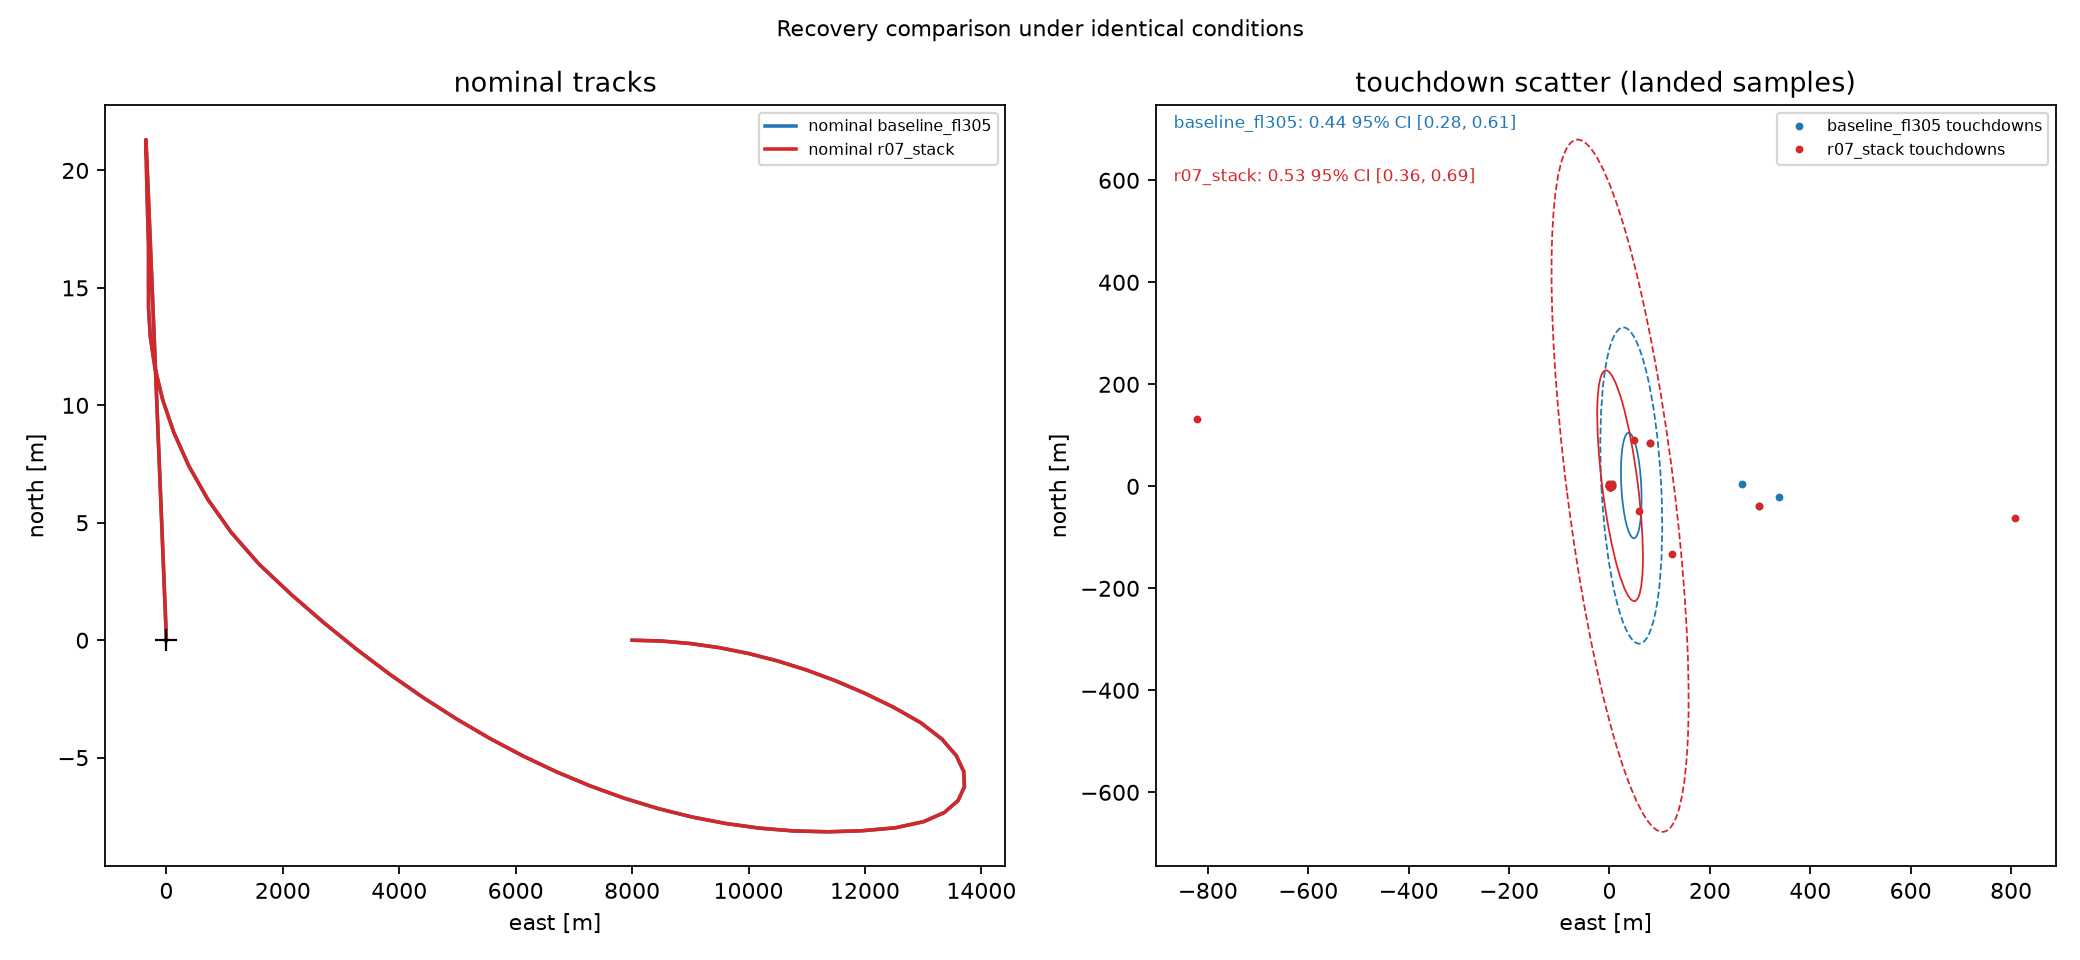
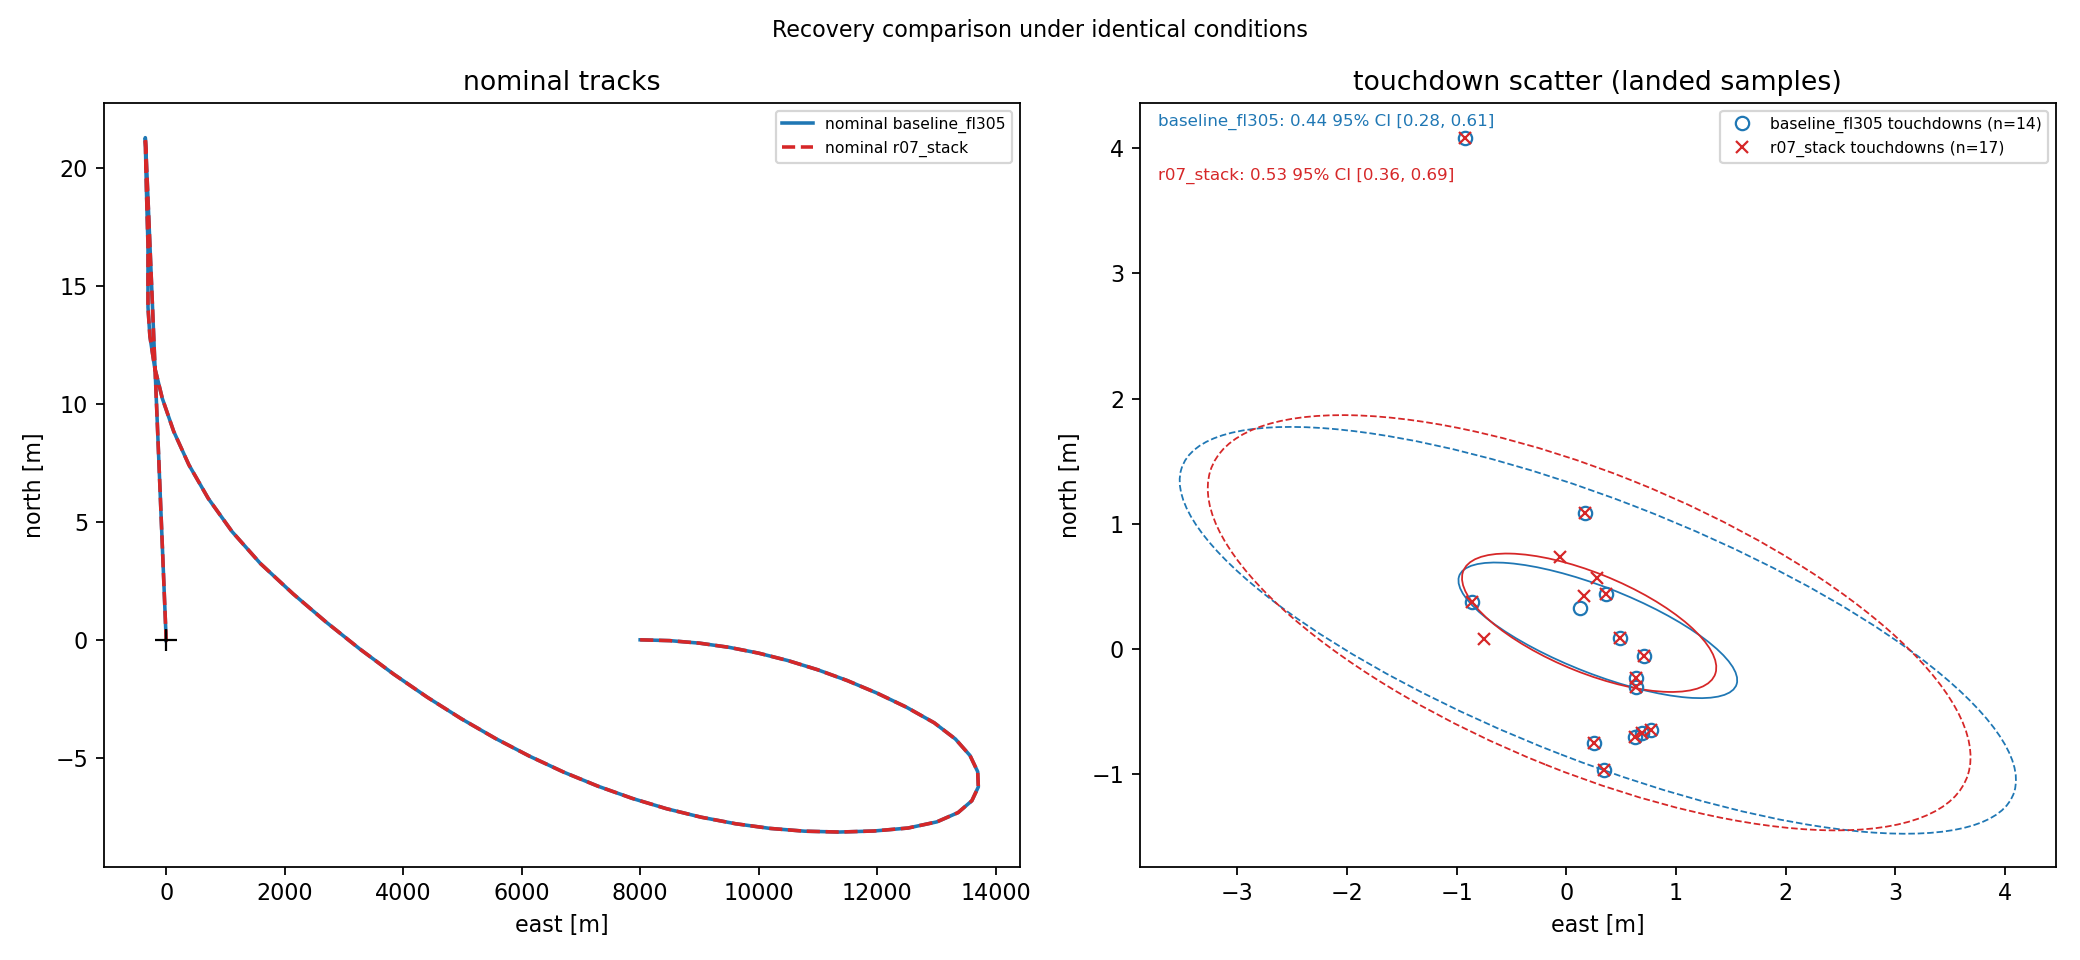
fix(recovery): comparison scatter uses landed samples only
plot_comparison drew failed samples' ground contacts under a 'landed
samples' title, inflating the sigma ellipses ~100x. Runs also get distinct
markers so identical touchdowns stay visible. R-07 figure regenerated
(statistics reproduce the recorded ones).

diff --git a/src/orbitopt/flightlab/recovery/envelope.py b/src/orbitopt/flightlab/recovery/envelope.py
@@ -59,7 +59,7 @@ from orbitopt.flightlab.recovery.stats import FAILURE_CLASSES, classify_failure
 
 __all__ = ["CLASS_COLORS", "TRACK_COLUMNS", "TRACK_SCHEMA",
            "capture_track_rows", "envelope_dataset", "nominal_recovery",
-           "nominal_report", "plot_comparison", "plot_envelope",
+           "landed_touchdowns", "nominal_report", "plot_comparison", "plot_envelope",
            "site_from_target", "track_rows", "write_nominal_report"]
 
 #: Fixed capture column layout -- the record's ``track.rows`` are
@@ -400,6 +400,16 @@ def plot_envelope(data: Mapping[str, Any], path: Path | str, *,
     return out
 
 
+def landed_touchdowns(data: Mapping[str, Any]) -> list[list[float]]:
+    """Site-ENU touchdown points of the *landed* samples only. A failed
+    sample can still carry a ground-contact point (a crash or a miss far
+    from the pad); those are failures, not part of the touchdown
+    dispersion, so the comparison scatter and its sigma ellipses use this
+    list and match the "landed samples" they are labelled with."""
+    return [tr["touchdown_enu_m"] for tr in data["trajectories"]
+            if tr["outcome"] == "landed" and tr["touchdown_enu_m"] is not None]
+
+
 def plot_comparison(runs: Sequence[Mapping[str, Any]], path: Path | str, *,
                     title: str = "Recovery comparison under identical "
                                 "conditions") -> Path:
@@ -417,18 +427,26 @@ def plot_comparison(runs: Sequence[Mapping[str, Any]], path: Path | str, *,
     from matplotlib.patches import Ellipse
 
     colors = ["#1f77b4", "#d62728", "#2ca02c", "#9467bd"]
+    # Runs flown under identical dispersions often land on the very same
+    # point; distinct marker shapes (hollow first) and line styles keep the
+    # earlier run visible under the later one.
+    markers = ["o", "x", "^", "s"]
+    line_styles = ["-", "--", "-.", ":"]
     fig, (axg, axt) = plt.subplots(1, 2, figsize=(13.0, 6.0))
     for i, run in enumerate(runs):
         color = colors[i % len(colors)]
         nom = _nominal_xy(run.get("nominal"))
         if nom is not None:
             axg.plot(nom[:, 1], nom[:, 2], color=color, lw=1.6,
+                     ls=line_styles[i % len(line_styles)],
                      label=f"nominal {run['label']}")
-        pts = [tr["touchdown_enu_m"] for tr in run["dataset"]["trajectories"]
-               if tr["touchdown_enu_m"] is not None]
+        pts = landed_touchdowns(run["dataset"])
         if pts:
-            axt.plot([p[0] for p in pts], [p[1] for p in pts], ".",
-                     color=color, ms=5, label=f"{run['label']} touchdowns")
+            marker = markers[i % len(markers)]
+            axt.plot([p[0] for p in pts], [p[1] for p in pts], marker,
+                     ls="", ms=6 if marker == "o" else 5, mec=color,
+                     mfc="none" if marker == "o" else color, mew=1.0,
+                     label=f"{run['label']} touchdowns (n={len(pts)})")
         if len(pts) >= 3:
             p = np.asarray(pts)
             cov = np.cov(p.T)

diff --git a/tests/test_flightlab_recovery_envelope.py b/tests/test_flightlab_recovery_envelope.py
@@ -26,6 +26,7 @@ from orbitopt.flightlab.recovery.envelope import (
     TRACK_SCHEMA,
     capture_track_rows,
     envelope_dataset,
+    landed_touchdowns,
     nominal_report,
     plot_comparison,
     plot_envelope,
@@ -150,6 +151,18 @@ def test_envelope_dataset_orders_classifies_and_ignores_uncaptured():
     assert by_idx[1]["touchdown_enu_m"] == [5.0, -4.0]
     assert data["ground"]["max_touchdown_radius_m"] == pytest.approx(6.403, abs=1e-3)
     assert all(t["rows"] for t in data["trajectories"])
+
+
+def test_landed_touchdowns_excludes_failed_ground_contacts():
+    """A failed sample can carry a touchdown point (a miss kilometres from
+    the pad). The comparison scatter is titled "landed samples", so its
+    points and sigma ellipses must come from landed samples only."""
+    miss = _sample(4, "failed", "LANDING_POSITION_OUT_OF_TOLERANCE", seed=6)
+    miss["touchdown_east_m"], miss["touchdown_north_m"] = 1800.0, -1500.0
+    landed = _sample(1, "landed", "LANDED", touchdown=(5.0, -4.0), seed=3)
+    landed2 = _sample(5, "landed", "LANDED", touchdown=(-3.0, 2.0), seed=7)
+    data = envelope_dataset([miss, landed, landed2], SITE)
+    assert landed_touchdowns(data) == [[5.0, -4.0], [-3.0, 2.0]]
 
 
 def test_envelope_band_brackets_the_population_and_gaps_sparse_tails():
